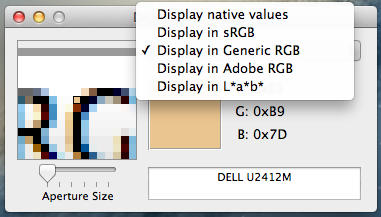
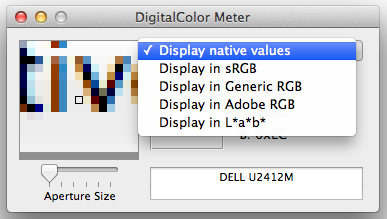
Fixed instructions

diff --git a/_posts/2013-08-05-digitalcolor-meter-mac-os-x-settings-for-web.md b/_posts/2013-08-05-digitalcolor-meter-mac-os-x-settings-for-web.md
@@ -8,7 +8,7 @@ DigitalColor Meter for Mac OS X - Settings for the Web
 
 If you're in need of an eye dropper application in Mac OS X for web development you're in luck - [DigitalColor Meter](http://www.apple.com/osx/apps/all.html#colormeter "DigitalColor Meter") works really well.
 
-If you're like me, you'll find all of the options in the drop-down representing different color spaces confusing. For web development which one should you choose? The correct setting is "Display in Generic RGB":
+If you're like me, you'll find all of the options in the drop-down representing different color spaces confusing. For web development which one should you choose? The correct setting is "Display native values":
 
 ![DigitalColor Meter Web Development Settings](/images/digitalcolor_meter_web_settings.png)
 
